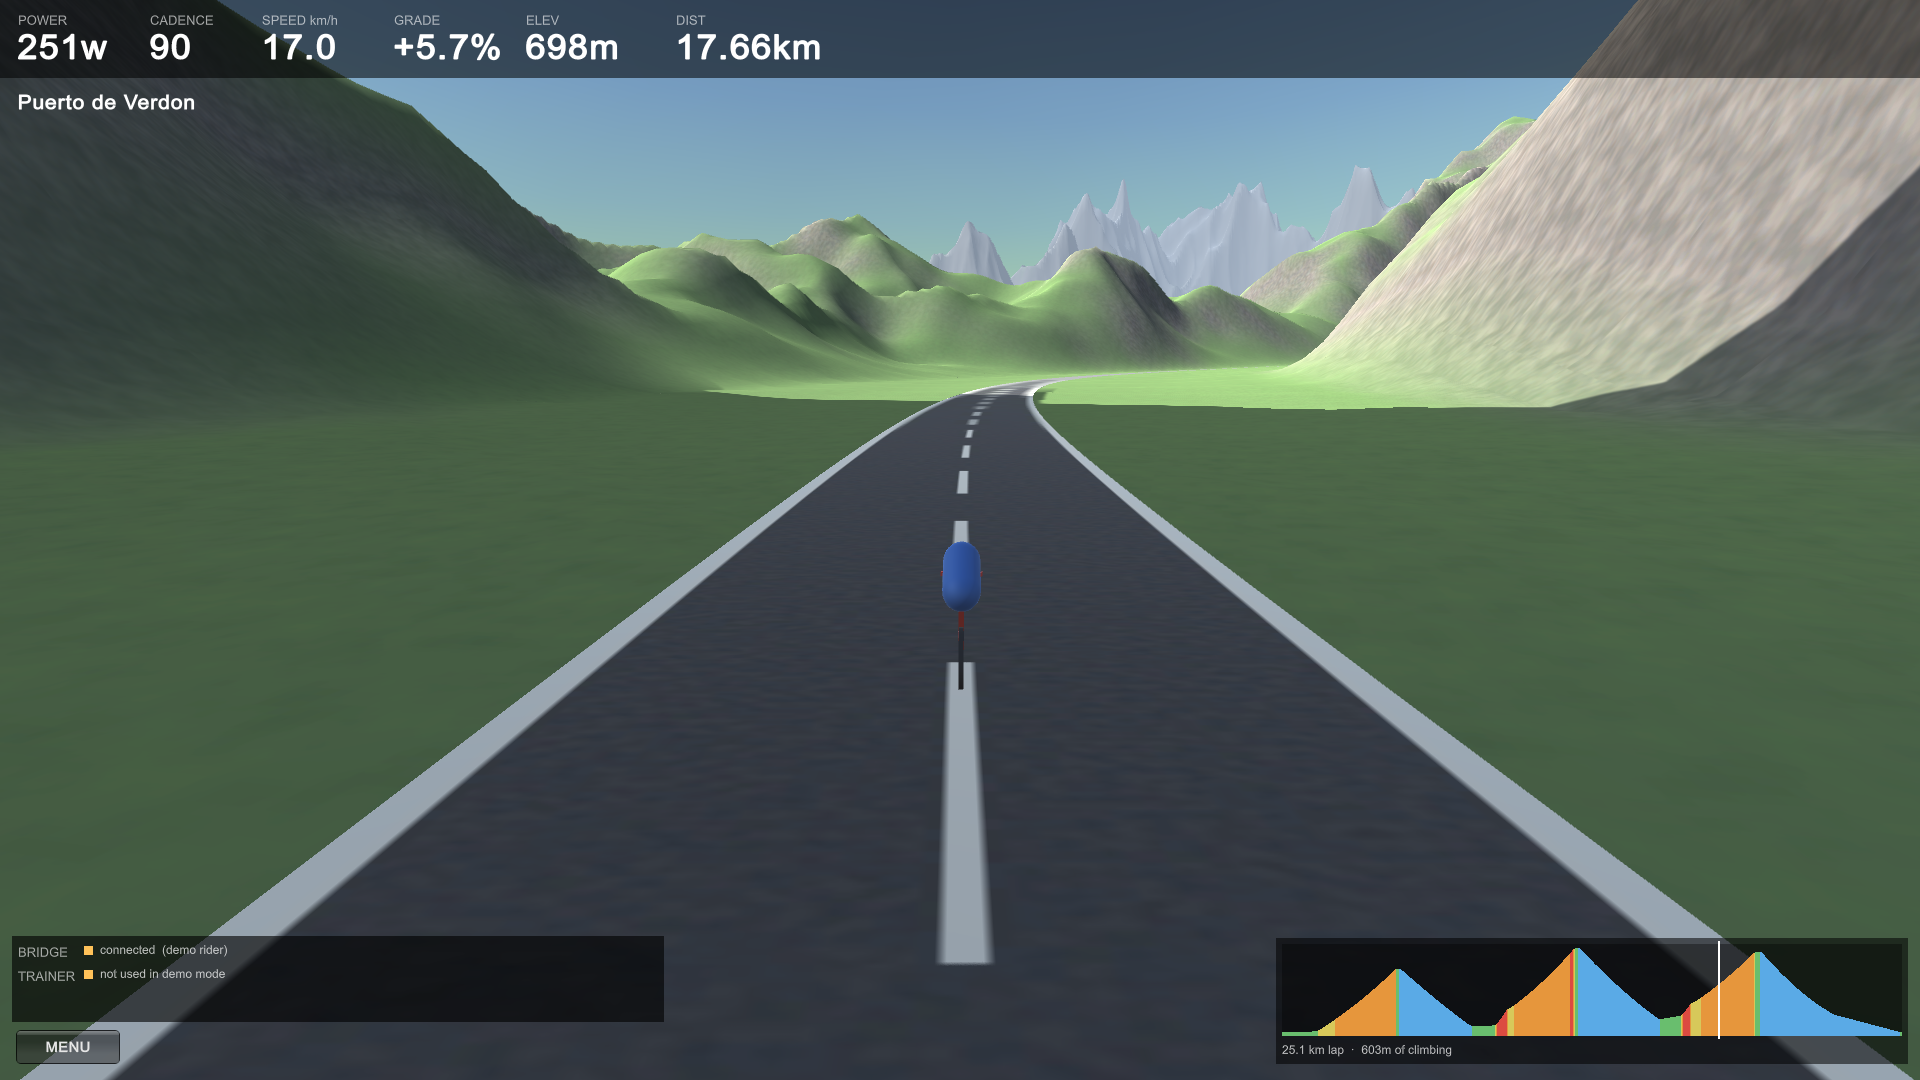
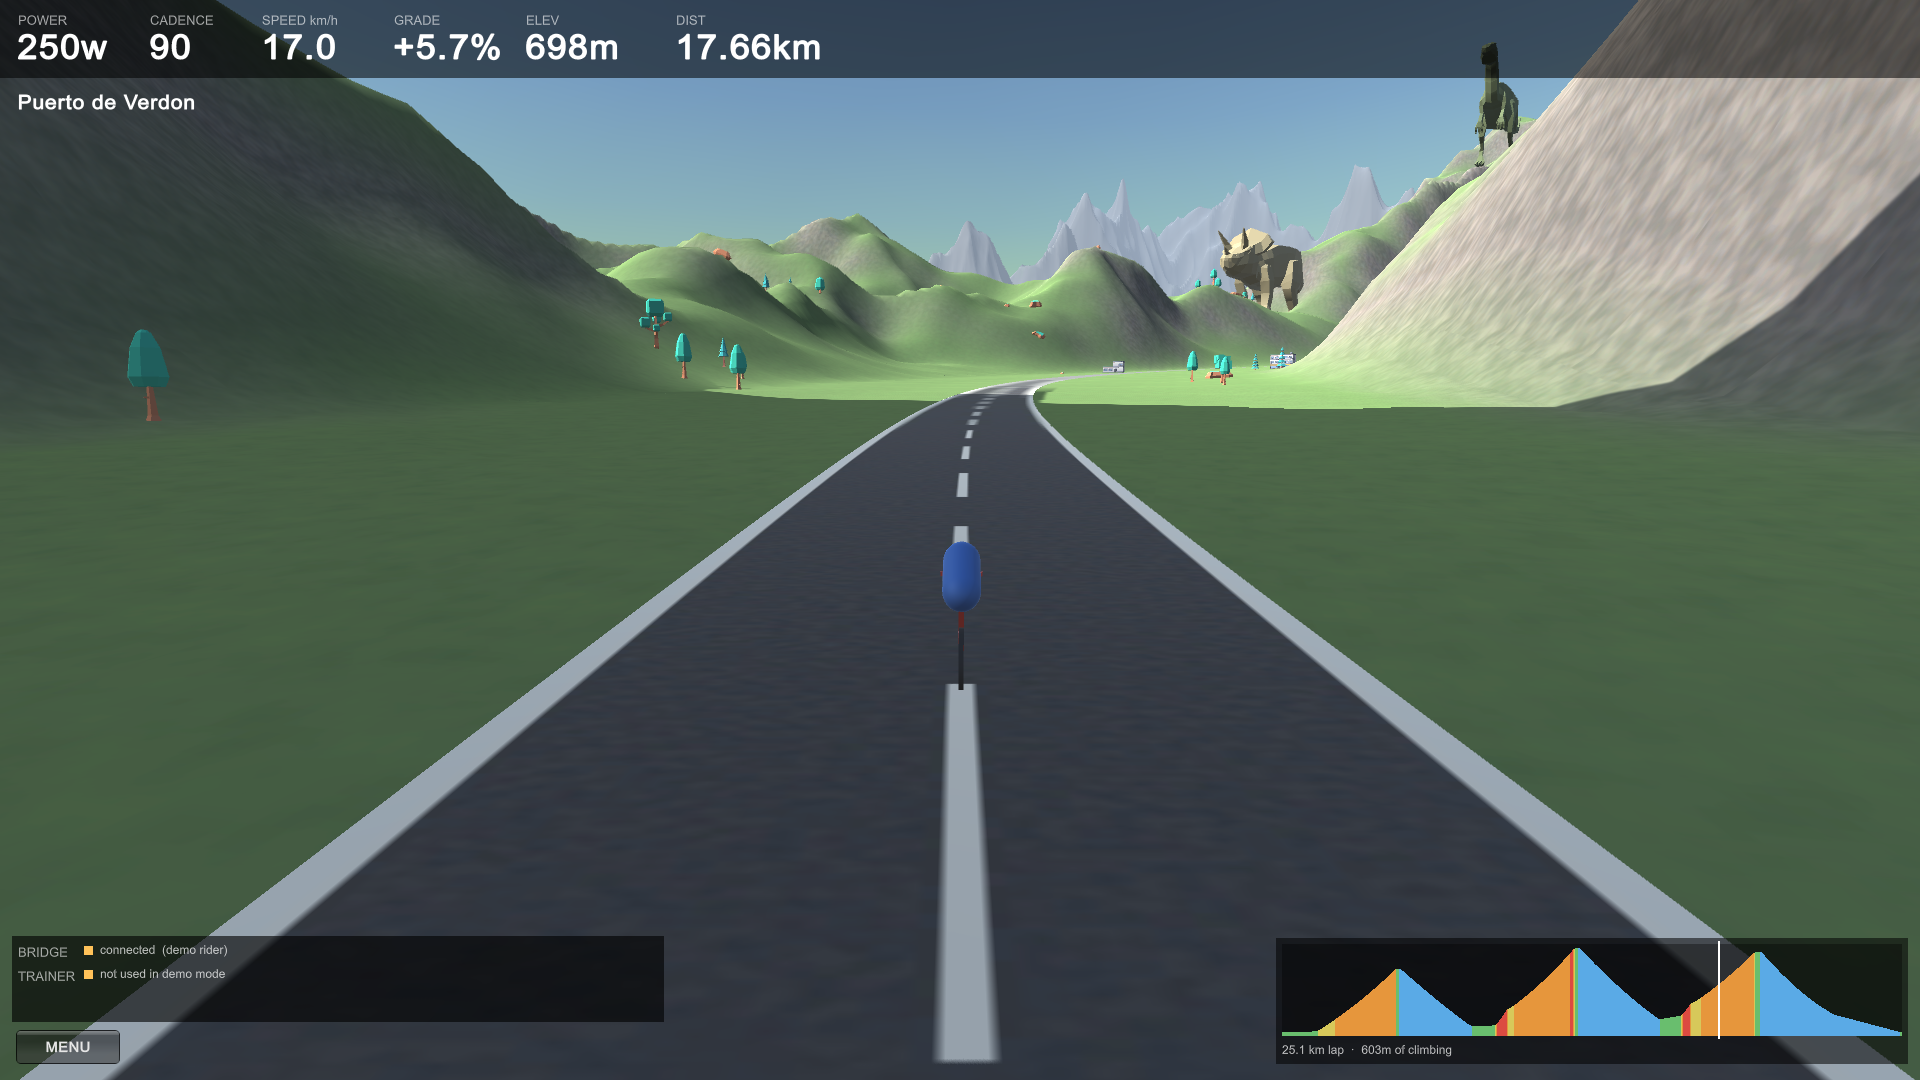
Refresh all README screenshots, and fix dinosaurs rendering as silhouettes
Every image predated the scenery models, so all six are retaken: hero, menu,
saved worlds, and the three seeded worlds.

Dinosaurs were rendering solid black. Not a missing texture and not vertex
colours - 0 of 723 vertex lines carry colour, and the exported material really
does specify a near-black diffuse:

    newmtl Brown
    Kd 0.057974 0.069710 0.050450

PropKind gains MaterialOverrides, a list picked from per instance, so a herd is
not all one shade. Four colours are generated for the dinosaurs at build time.
Assignment writes sharedMaterials rather than materials, which would otherwise
clone a material per instance and defeat batching.

Adds -startnear <kind> to AutoScreenshot, which jumps the rider to a placed
instance. Dinosaurs sit at roughly one per kilometre, so finding one for a
screenshot was otherwise a long hunt; PropScatter now records the route distance
of every placement to support it.

Documents a real limit found while doing this: scatter placement is stable for a
given seed and a given build, but not across builds. Anything changing how many
random numbers the scatter draws shifts every position after it - adding the
material picker moved the whole layout, because choosing a material consumes a
draw. Terrain and course are unaffected, since the scatter uses its own salted
stream, so a saved world keeps its mountains and its climbs.

diff --git a/unity/Assets/Scripts/PropScatter.cs b/unity/Assets/Scripts/PropScatter.cs
@@ -54,6 +54,12 @@ namespace KickrWorld
         public int ClusterMax = 1;
         public float ClusterRadius = 30f;
 
+        [Tooltip("Replaces whatever materials the model shipped with. One is " +
+                 "picked per instance. Needed where an exported material is not " +
+                 "usable -- the Quaternius dinosaurs carry a near-black diffuse " +
+                 "(Kd 0.058 0.070 0.050) and render as silhouettes without this.")]
+        public List<Material> MaterialOverrides = new List<Material>();
+
         public Color PlaceholderColor = Color.grey;
         public Vector3 PlaceholderSize = Vector3.one;
         public PrimitiveType PlaceholderShape = PrimitiveType.Cube;
@@ -78,6 +84,10 @@ namespace KickrWorld
         public int MaxInstances = 1700;
 
         public int Placed { get; private set; }
+
+        /// <summary>Route distances at which each kind was placed. Useful for
+        /// finding a rare prop without riding the whole lap looking for it.</summary>
+        public readonly Dictionary<string, List<float>> PlacedAt = new Dictionary<string, List<float>>();
 
         Transform _root;
         readonly List<Material> _ownedMaterials = new List<Material>();
@@ -154,6 +164,7 @@ namespace KickrWorld
 
             _root = new GameObject("Props").transform;
             _root.SetParent(transform, false);
+            PlacedAt.Clear();
 
             var rng = new System.Random(seed ^ ScatterSalt);
             float Range(float a, float b) => a + (float)rng.NextDouble() * (b - a);
@@ -222,7 +233,13 @@ namespace KickrWorld
                         // otherwise creep onto the tarmac one house at a time.
                         if (Vector2.Distance(spot, centre) < kind.MinOffset * 0.8f) continue;
                         var template = variants[rng.Next(variants.Count)];
-                        if (TryPlace(template, kind, spot, rng)) { placed++; placedForKind++; }
+                        if (TryPlace(template, kind, spot, rng))
+                        {
+                            placed++; placedForKind++;
+                            if (!PlacedAt.TryGetValue(kind.Name, out var list))
+                                PlacedAt[kind.Name] = list = new List<float>();
+                            list.Add(d);
+                        }
                     }
                 }
 
@@ -272,6 +289,22 @@ namespace KickrWorld
             var go = Instantiate(template, new Vector3(spot.x, ground + lift, spot.y), Quaternion.identity, _root);
             go.SetActive(true);
             go.name = kind.Name;
+
+            if (kind.MaterialOverrides != null && kind.MaterialOverrides.Count > 0)
+            {
+                var chosen = kind.MaterialOverrides[rng.Next(kind.MaterialOverrides.Count)];
+                if (chosen != null)
+                {
+                    // sharedMaterials, not materials: assigning to .materials would
+                    // clone a material per instance and defeat batching entirely.
+                    foreach (var r in go.GetComponentsInChildren<Renderer>(true))
+                    {
+                        var slots = r.sharedMaterials;
+                        for (int m = 0; m < slots.Length; m++) slots[m] = chosen;
+                        r.sharedMaterials = slots;
+                    }
+                }
+            }
 
             float yaw = (float)rng.NextDouble() * 360f;
             go.transform.rotation = kind.AlignToGround

diff --git a/unity/Assets/Editor/WorldBuilder.cs b/unity/Assets/Editor/WorldBuilder.cs
@@ -220,6 +220,7 @@ namespace KickrWorld.EditorTools
             scatter.Kinds = PropScatter.DefaultKinds();
             AssignPropModels(scatter);
             regen.Scatter = scatter;
+            shot.Scatter = scatter;
 
             BuildLighting();
             AssertNoMissingScripts();
@@ -286,7 +287,23 @@ namespace KickrWorld.EditorTools
                     else missing.Add(rel);
                 }
 
+                // The Quaternius dinosaurs export with a near-black diffuse
+                // (Kd 0.058 0.070 0.050) and render as silhouettes, so give them
+                // usable colours. A few variants, picked per instance, so a herd
+                // is not all one shade.
+                if (kind.Name == "dinosaur")
+                {
+                    kind.MaterialOverrides = new List<Material>
+                    {
+                        MakeDinoMaterial("DinoOlive", new Color(0.36f, 0.42f, 0.26f)),
+                        MakeDinoMaterial("DinoSlate", new Color(0.42f, 0.45f, 0.48f)),
+                        MakeDinoMaterial("DinoRust",  new Color(0.52f, 0.36f, 0.26f)),
+                        MakeDinoMaterial("DinoSand",  new Color(0.62f, 0.56f, 0.40f)),
+                    };
+                }
+
                 Log($"  {kind.Name}: {kind.Prefabs.Count} model(s)" +
+                    (kind.MaterialOverrides.Count > 0 ? $", {kind.MaterialOverrides.Count} material override(s)" : "") +
                     (missing.Count > 0 ? $", MISSING {string.Join(", ", missing)}" : ""));
             }
         }
@@ -528,6 +545,15 @@ namespace KickrWorld.EditorTools
         }
 
         // --- materials & textures -------------------------------------------
+
+        static Material MakeDinoMaterial(string name, Color color)
+        {
+            var mat = new Material(Shader.Find("Standard")) { name = name, color = color };
+            mat.SetFloat("_Glossiness", 0.12f);
+            mat.enableInstancing = true;
+            AssetDatabase.CreateAsset(mat, $"{GenDir}/{name}.mat");
+            return mat;
+        }
 
         static Material MakeTerrainMaterial()
         {

diff --git a/unity/Assets/Scripts/AutoScreenshot.cs b/unity/Assets/Scripts/AutoScreenshot.cs
@@ -22,6 +22,7 @@ namespace KickrWorld
     {
         public BikeRider Rider;
         public WorldRegenerator Regenerator;
+        public PropScatter Scatter;
 
         void Start() => StartCoroutine(Run());
 
@@ -59,7 +60,18 @@ namespace KickrWorld
                 yield return null;
             }
 
+            // -startnear <kind> puts the rider just before a placed instance of
+            // that kind. A dinosaur at ~1 per km is otherwise a long hunt.
+            string near = Arg("-startnear");
             float startDistance = Num("-startdistance", -1f);
+            if (!string.IsNullOrEmpty(near) && Scatter != null &&
+                Scatter.PlacedAt.TryGetValue(near, out var spots) && spots.Count > 0)
+            {
+                int which = Mathf.Clamp(Mathf.RoundToInt(Num("-startnearindex", 0f)), 0, spots.Count - 1);
+                startDistance = Mathf.Max(0f, spots[which] - 55f);
+                Debug.Log($"[AutoScreenshot] -startnear {near}: {spots.Count} placed, " +
+                          $"using #{which} at {spots[which]:F0} m");
+            }
             if (startDistance >= 0f && Rider != null)
             {
                 Rider.Jump(startDistance);

diff --git a/README.md b/README.md
@@ -2,21 +2,22 @@
 
 Ride a Wahoo KICKR through generated 3D terrain.
 
-![VibeRide on the Hairpin descent](docs/screenshot.png)
+![Descending Col de Verdon past a sauropod](docs/screenshot.png)
 
-*Descending at 61.3 km/h on a -6.3% gradient. The elevation profile bottom-right
-is coloured by gradient — green flat, amber rising, red brutal, blue descending —
-with the white marker showing position on the 25 km lap.*
+*Descending Col de Verdon at 50.5 km/h on a -6.1% gradient, with a sauropod
+grazing the far hillside. The elevation profile bottom-right is coloured by
+gradient — green flat, amber rising, red brutal, blue descending — with the white
+marker showing position on the 25 km lap.*
 
 Your trainer drives it: power and cadence come in over Bluetooth, a physics model
 turns them into speed, and the road gradient goes back out to the trainer as FTMS
 simulation parameters — so the flywheel gets physically harder on the climbs.
 
-![The menu, climbing Col de Carbon](docs/menu.png)
+![The in-app menu, climbing Puerto de Vireux](docs/menu.png)
 
-*318 W at +7.9% on Col de Carbon. The menu switches between metric and imperial,
-and **Regenerate** rebuilds the entire world — terrain, course and road — from a
-new seed at runtime, in about six seconds.*
+*319 W at +7.6% on Puerto de Vireux. The menu switches between metric and
+imperial, saves and loads named worlds, and **Regenerate** rebuilds the entire
+world — terrain, course, road and scenery — from a new seed in about six seconds.*
 
 The app is **VibeRide**; the repository folder and the internal code namespaces
 (`KickrWorld` in C#, `kickr_bridge` in Python) still carry the original working
@@ -104,7 +105,16 @@ reproducible, loading a favourite would give you a different landscape than the
 one you saved. The scatter draws from its own random stream, salted off the seed,
 so adding a new prop kind cannot shift the terrain of an already-saved world.
 
-Run the player with `-verifyscatter` to scatter twice and compare fingerprints.
+Run the player with `-verifyscatter` to scatter twice and compare fingerprints,
+and `-startnear dinosaur` to jump to a placed instance rather than hunting for
+one at roughly one per kilometre.
+
+> **Placement is stable for a given seed and a given build, not across builds.**
+> Anything that changes how many random numbers the scatter draws will shift
+> every position downstream of it — adding the dinosaur material picker moved the
+> whole layout, because choosing a material consumes a draw. Terrain and course
+> are unaffected, since the scatter uses its own salted stream, so a saved world
+> keeps its mountains and its climbs; only where the trees stand can move.
 
 Each kind carries its own placement rules, which is what stops everything landing
 in one uniform sprinkle:
@@ -205,7 +215,7 @@ rock-walled valley.*
 ![Seed 90210](docs/world-90210.png)
 
 *Seed 90210 — 25.06 km, 599 m. Grinding up Mont Carbon at 5.3% under sheer grey
-cliffs.*
+cliffs, with a stegosaurus on the slope above.*
 
 ![Seed 555](docs/world-555.png)
 
